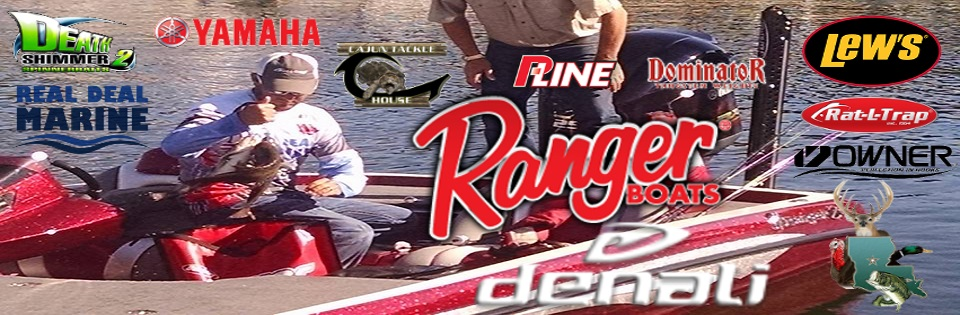
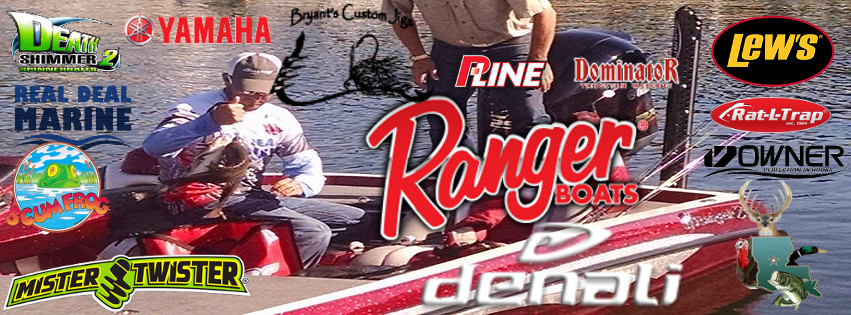
Made changes
Added sponsors to header, added sponsors to sponsor page and made blog
posts.

diff --git a/blog.html b/blog.html
@@ -57,18 +57,44 @@
         				
         			
         		</div>
-        		<!--<div id="blog">
-        			<h3 class="blog-title">BASS CENTRAL OPEN - RIDGELAND, MS</h3>
-        			<h6 class="blog-title">Posted on January 16, 2016</h6>
+        		<div id="blog">
+        			<h3 class="blog-title">Fort Gibson</h3>
+        			<h6 class="blog-title">Posted on February 15, 2016</h6>
         			<span style = "color: #8f1111;">
         			</span>
-        			<p>I just finished up with my first BASS Central Open on Ross Barnett in Ridgeland, MS. This was my first time to ever be on that lake and I am very pleased with my finish. My main goal for this event was to not take myself out of the points range for the year.</p> 
+        			<p>The second central open is in the books. I want to give a huge thanks to my parents, uncle, and family from Oklahoma for making it to the weigh-ins. I couldn’t chase this dream without their love and support. And after my first few days of practice at Fort Gibson (I only caught a few keepers), support is exactly what I needed.</p> 
 
-					<p>My practice was an OK practice on Saturday and Sunday but when Monday came I found the mother load, atleast I thought I did. I found some stumps and ditches that ran through lilly pad stems in the main lake area and I noticed everybody was burning a spinnerbait or chatter bait so I started slow rolling a half ounce black and blue Death Shimmer spinnerbait on a Denali Kovert Spinnerbait rod on the bottom and it was lights out. By the end of Monday's practice I had over 26 lbs, at that point I really thought it was a done deal so the next two days of practice I tried to duplicate what I found but I couldn't. So, on Wednesday about 10am, I picked up a Pelican Lures buzzbait and again had another great day. So I had two patterns I could use and had alot of confidence going into the first day of the tournament.</p> 
+					<p>I relied on my strengths for this tournament and decided to stay up the river, fishing the same way I did growing up. A big rain hit us on the last day of practice, which gave me an idea.  And it wasn’t long before I found what I was looking for.</p>
 
-							
-        			
-        		</div>-->
+					<p>After the rain the river accumulated a lot of current, pulling fish out of the creek mouths into the river. If I could find a way to get some bites at these key points, I knew I could win. I ran three different spots and had close to 20lbs. I left confident but knew there was a chance the current could let up and ruin this strategy by the time the tournament started.</p> 
+
+					<p>I barely slept the next night wondering how much the current would change. Before I took off that morning I checked the river gauges and realized that the current was gone for the most part, but I decided to make the run regardless.</p>
+
+					<p>As suspected, the fish had left the areas I found the day before. Starting from scratch I explored the area and found a special spot. All ten of my weigh fish come from one log using a Denali shakey head rod with a drop shop. The most effective bait was a roboworm (one of the last things I would have expected). All in all I wrapped up Fort Gibson with a 25th place finish leaving me in the Top 10 for AOY.</p>
+        		</div>
+        		<div id="blog">
+        			<h3 class="blog-title">Table Rock</h3>
+        			<h6 class="blog-title">Posted on February 15, 2016</h6>
+        			<span style = "color: #8f1111;">
+        			</span>
+        			<p>The last open of the year was one I will never forget. It was at Table Rock Lake, a lake that is very clear compared to what I usually fish. The first two days of practice were a little tough for me.  I think the clear, deep water freaked me out at first. On the third day of practice I thought I had found something very special.  I was doing something that I had never done before, flipping docks with a spoon like a jig. Over the next few days I thought I was in the zone.</p> 
+
+					<p>The morning before the tournament there wasn't a doubt in my mind that I could have weighed in between 16 to 18lbs per day. The fish obviously had other plans because they never showed up to the party. The first morning of the tournament started off slow. I managed to scrounge up a limit by junk fishing. The second day was one of those where everything went right. I didn't have a giant bag but it was a very special day to me. As we left that morning I could feel that things were going to go right and someone very special was looking over me.</p>
+
+					<p>My grandmother had passed away a few months before this tournament. She meant more to me than she’ll ever know.  And I know that she was with me on this day.  It wasn't long before I had my limit.  I felt compelled to go to a spot that I had fished the first day of practice, so I did. Within the next hour I culled everything I had with smallmouth, the first smallmouth I had caught during the open.</p> 
+
+					<p>Continuing down the bank I used one deep diving crankbait that was practically a square bill because I had hit so many rocks with it. As I went to throw it, my line snapped at the reel and my bait went flying. There was a dead tree about 15 feet away on the bank with one twig sticking out the top. The bait hit this specific twig and bounced all the way back to the edge of the water.  After retrieving the bait I caught my first walleye and rainbow trout, culling a few more times. As I got to the weigh-in I saw that a lot of the weights were lower. I weighed in just over 12lbs of small mouth, which was good enough for a top 12.</p>
+
+					<p>So there I was on the final morning sitting in the water, ready to compete with some of the best anglers in the world. The last day of the tournament was a struggle but after making the top 12 I decided to go for broke. Before now I was content fishing for the AOY points, but since I was already in 12th I couldn't risk dropping any lower. Starting from scratch I picked a bait that could catch bigger fish and took off.  This turned out to be a crucial mistake.</p>
+
+					<p>After we all weighed in Chris announced the qualifiers for the elite series. This is a day that I will never forget.  I had set two specific goals for myself this year: a top 12 finish, and qualifying for the elite series. And both were happening at this moment.  Although I qualified to fish the elites, financially there was no way I could do it on my own. So I reached out to every company I could think of for financial backing with no luck.</p>
+
+					<p>I am a firm believer that whatever is going to happen, will happen. I gave 100% but it just wasn't meant to be this go round. I want to say a special thank you to my family that came to the weigh-in on the final day. And a special thanks to my wife for helping me chase this crazy dream. Not to mention all the calls and texts I received from friends.</p>
+
+					<p>Last but certainly not least, thank you to the folks from Ranger, Yamaha, Powerpole and Hummingbird that work at the tournaments. Anyone who knows me knows that I don’t have the best luck and there wasn't a single tournament that I didn't need one of these guys.  Without them, myself and a lot of other guys would not have been able to fish the tournaments.</p>
+
+					<p>The 2015 season is done. I gave it everything I had but now it’s time to get ready for 2016. Hopefully it will be a turning point in our lives.</p>
+        		</div>
         		
 			</div>
         		

diff --git a/sponsors.html b/sponsors.html
@@ -49,7 +49,9 @@
         			<a href="https://www.rangerboats.com/"><img class="spons-pic" src="img/Sponsors/rangerlogo.png" /></a>
         			<a href="https://rat-l-trap.com/"><img class="spons-pic" src="img/Sponsors/ratltraplogo.png" /></a>
         			<a href="https://www.facebook.com/Real-Deal-Marine-390731784324217/"><img class="spons-pic" src="img/Sponsors/realdealmarine.png" /></a>
-        			<a href="https://http://www.lews.com/"><img class="spons-pic" src="img/Sponsors/lews-logo.png" /></a>
+        			<a href="http://www.lews.com/"><img class="spons-pic" src="img/Sponsors/lews-logo.png" /></a>
+                    <a href="http://www.mistertwister.com/"><img class="spons-pic" src="img/Sponsors/mistertwister.png" /></a>
+                    <a href="https://www.facebook.com/bryantscustomjigs/"><img class="spons-pic" src="img/Sponsors/BCJ logo final test3.png" /></a>
         		</div>
         		<div id="partner"><p>For Partnership information click <a href="files/Sam Partnership.pdf" target="_blank">here</a></p>
         		</div>
